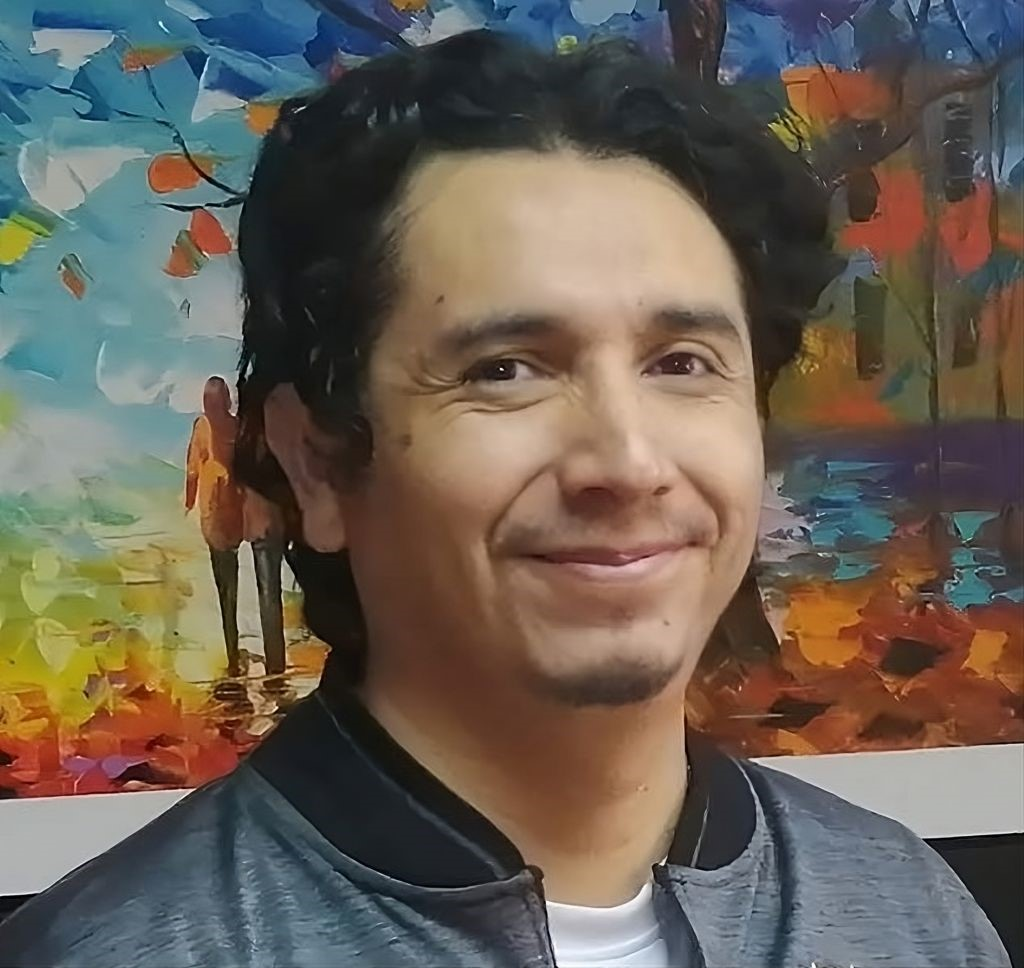
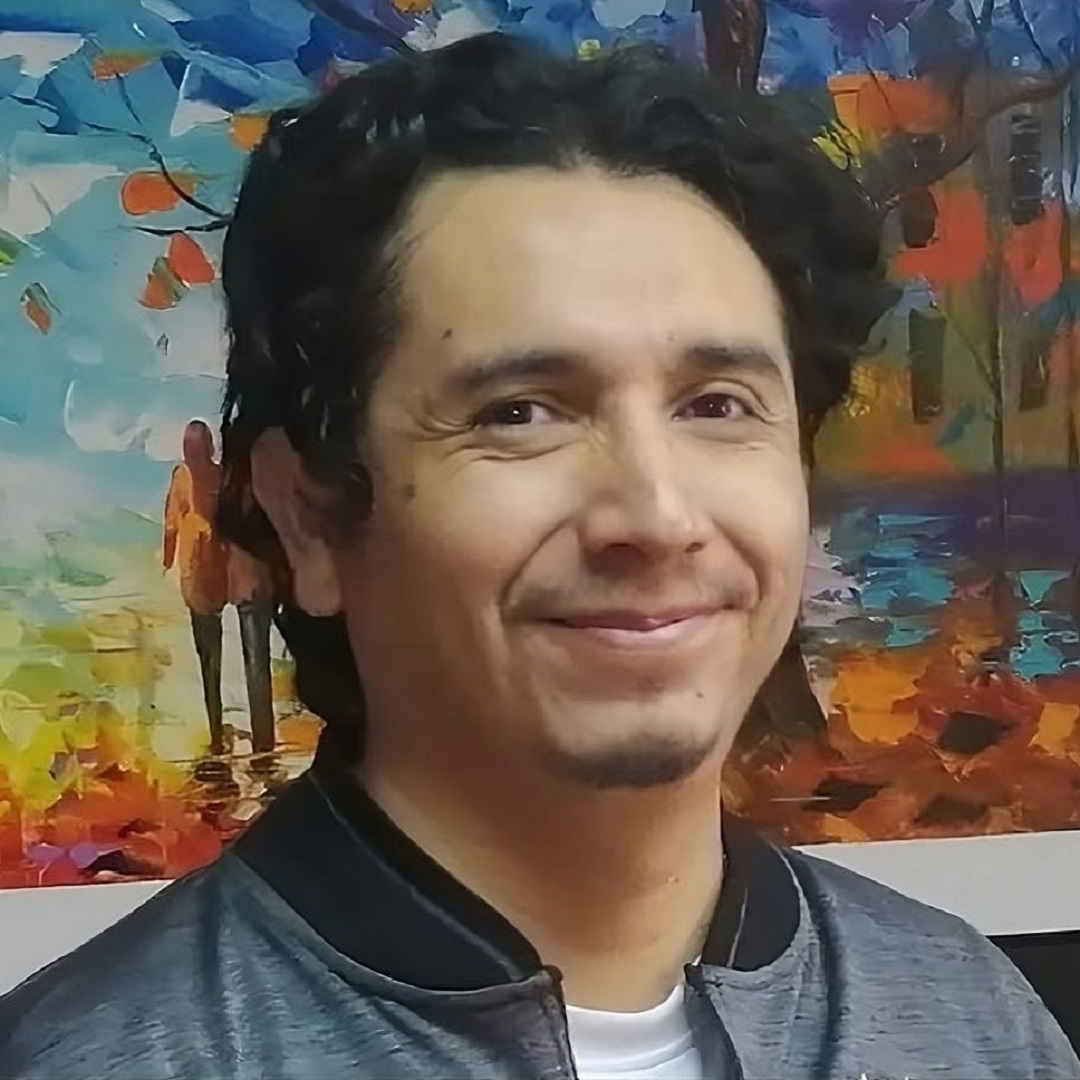
Update people

diff --git a/v/people.html b/v/people.html
@@ -41,7 +41,7 @@
           </div>
         </span>
         <span>
-          <img src="/assets/photos/cristian-riveros.png">
+          <img src="/assets/photos/cristian-riveros.jpg">
           <h3>Cristian Riveros</h3>
           <a href="mailto:cristian.riveros@uc.cl">cristian.riveros@uc.cl</a>
           <div>
@@ -50,7 +50,7 @@
           </div>
         </span>
         <span>
-          <img src="/assets/photos/miguel-romero.png">
+          <img src="/assets/photos/miguel-romero.jpg">
           <h3>Miguel Romero</h3>
           <a href="mailto:mgromero@uc.cl">mgromero@uc.cl</a>
           <div>
